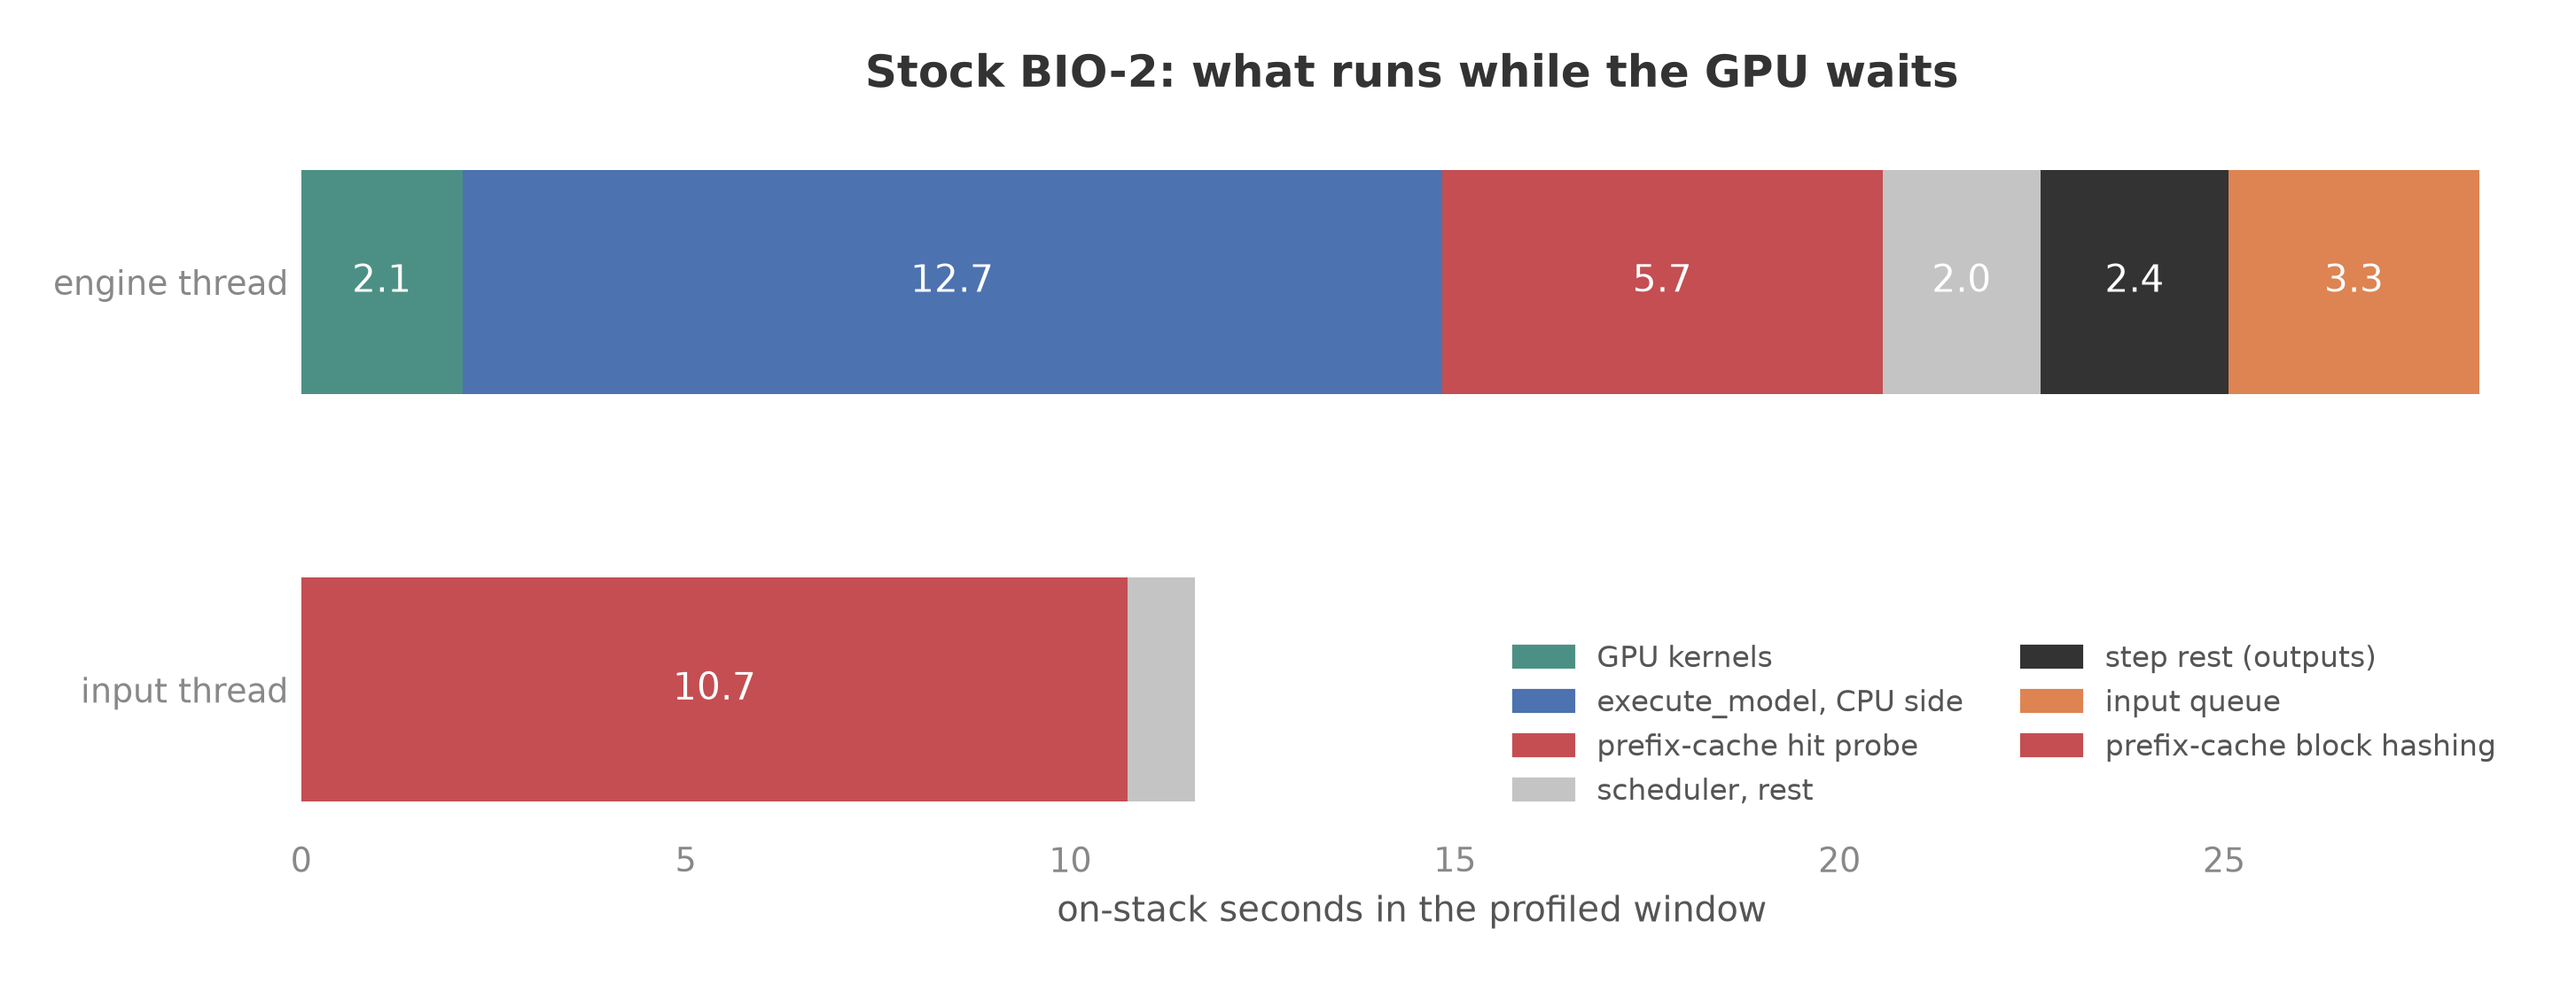
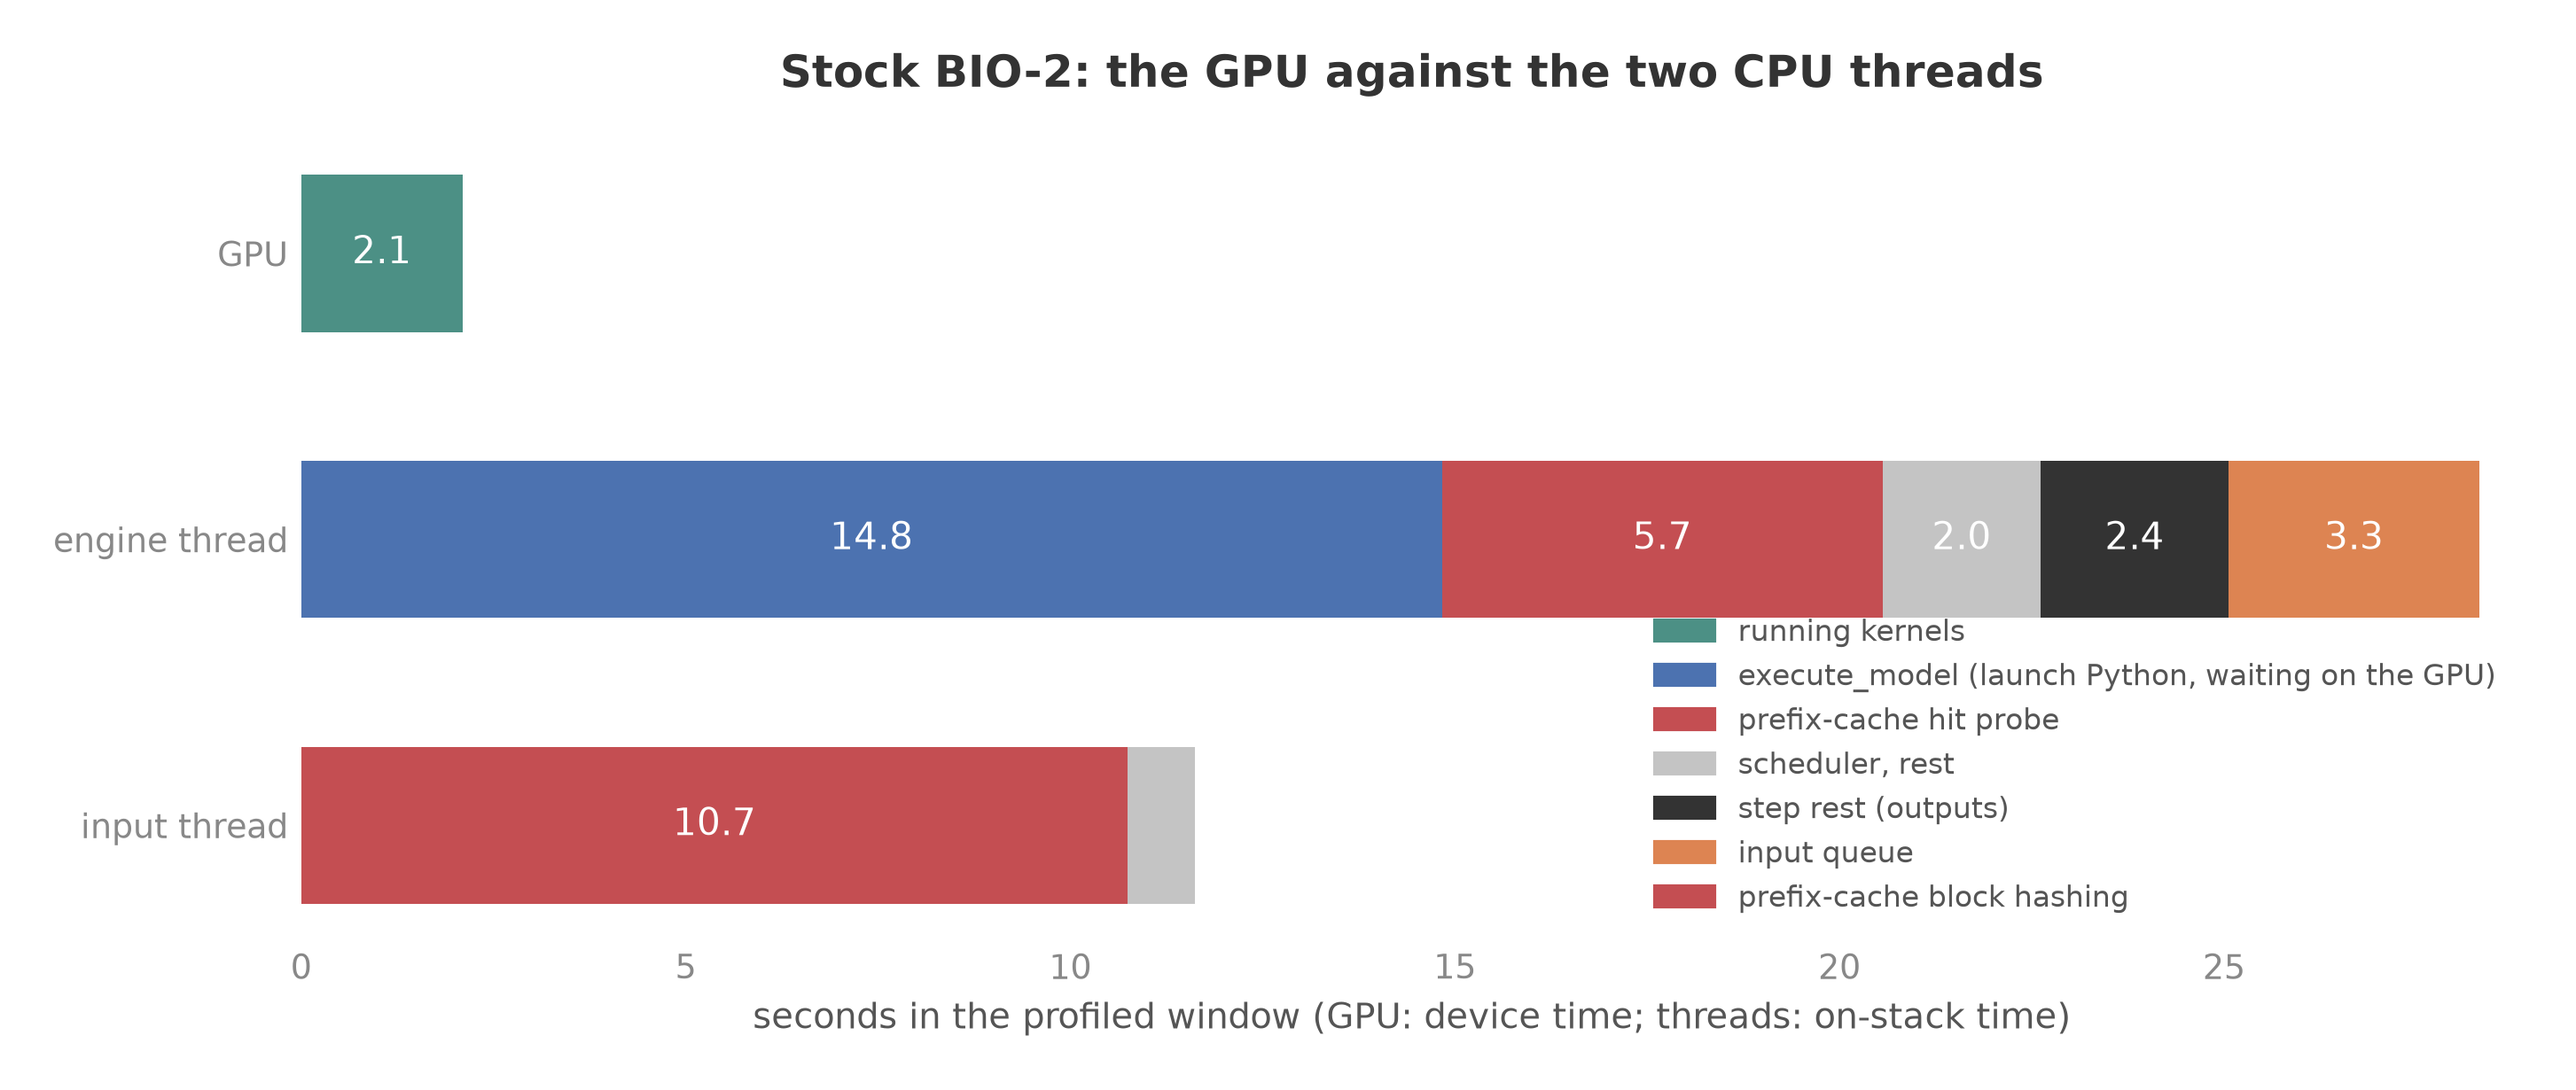
BIO-2 figures: GPU gets its own lane, strip labels shrink to name and busy share
The attribution figure no longer draws kernel time inside the engine
thread's bar - device time is not thread time - and the strips say
in the title what filled means. The profiler-stretch caveat moves to
the report text.

Claude-Session: https://claude.ai/code/session_01LCNhjRhCWLPyrH8TJk6zSt

diff --git a/reports/make_imdb3_bio2_discrepancies_plots.py b/reports/make_imdb3_bio2_discrepancies_plots.py
@@ -413,11 +413,8 @@ def fig_bio2_strips(workdir, stockb):
         workdir / "traces" / "bio2_join_late.chrome.json.gz")
     stock_evs = _kernel_intervals(_stock_bio2_trace(workdir, stockb))
     fig, axes = plt.subplots(2, 1, figsize=(9.6, 3.4), sharex=True)
-    rows = ((axes[0], quail_evs, BLUE, "white",
-             "Quail (kernel-only capture)"),
-            (axes[1], stock_evs, RED, DARK,
-             "stock vLLM (profiled run; its CPU tracing stretches "
-             "the wall about 2.4x)"))
+    rows = ((axes[0], quail_evs, BLUE, "white", "Quail"),
+            (axes[1], stock_evs, RED, DARK, "stock vLLM"))
     excerpt = 2.0
     for ax, evs, color, text_color, label in rows:
         t0 = min(s for s, _ in evs)
@@ -440,8 +437,8 @@ def fig_bio2_strips(workdir, stockb):
                            edgecolor="none")))
         ax.set_xlim(0, excerpt)
     axes[1].set_xlabel("seconds into the excerpt")
-    axes[0].set_title("BIO-2: when the GPU is running a kernel, "
-                      "two-second excerpts")
+    axes[0].set_title("BIO-2: filled while the GPU computes, blank "
+                      "while it idles")
     fig.tight_layout()
     fig.savefig(OUT / "discrepancy_bio2_strips.png", dpi=300)
     plt.close(fig)
@@ -452,20 +449,21 @@ def fig_bio2_strips(workdir, stockb):
 
 
 def fig_bio2_cpu(workdir, stockb):
-    """Where stock's window wall goes, split exactly by stack frame.
+    """Where stock's window wall goes: the GPU's kernel time in its
+    own lane, and the two CPU threads split exactly by stack frame.
 
     On-stack seconds include GIL waits and, inside execute_model,
     the wait for the GPU; the two threads run concurrently but share
-    the GIL.
+    the GIL. The GPU lane is device time, not thread time.
     """
     path = _stock_bio2_trace(workdir, stockb)
     fr = frame_seconds(path)
     _, _, _, merged_us = kernel_busy(path)
     kernels = merged_us / 1e6
+    gpu = [("running kernels", kernels, TEAL)]
     engine = [
-        ("GPU kernels", kernels, TEAL),
-        ("execute_model, CPU side", fr["execute_model"] - kernels,
-         BLUE),
+        ("execute_model (launch Python, waiting on the GPU)",
+         fr["execute_model"], BLUE),
         ("prefix-cache hit probe", fr["cache_probe"], RED),
         ("scheduler, rest", fr["schedule"] - fr["cache_probe"], GRAY),
         ("step rest (outputs)", fr["engine_step"] - fr["schedule"]
@@ -477,26 +475,28 @@ def fig_bio2_cpu(workdir, stockb):
         ("request construction, rest",
          fr["preprocess"] - fr["block_hash"], GRAY),
     ]
-    fig, ax = plt.subplots(figsize=(9.6, 3.6))
-    for y, (title, parts) in enumerate((
-            ("engine thread", engine), ("input thread", inputt))):
+    lanes = (("GPU", gpu), ("engine thread", engine),
+             ("input thread", inputt))
+    fig, ax = plt.subplots(figsize=(9.6, 4.0))
+    for y, (title, parts) in zip((2, 1, 0), lanes):
         x = 0.0
         for name, sec, color in parts:
-            ax.barh(1 - y, sec, left=x, color=color, height=0.55)
+            ax.barh(y, sec, left=x, color=color, height=0.55)
             if sec > 1.6:
-                ax.text(x + sec / 2, 1 - y, f"{sec:.1f}",
+                ax.text(x + sec / 2, y, f"{sec:.1f}",
                         ha="center", va="center", color="white")
             x += sec
     handles = [plt.Rectangle((0, 0), 1, 1, color=c)
-               for _, _, c in engine + inputt[:1]]
-    labels = [n for n, _, _ in engine] + [inputt[0][0]]
+               for _, _, c in gpu + engine + inputt[:1]]
+    labels = ([n for n, _, _ in gpu + engine]
+              + [inputt[0][0]])
     ax.legend(handles, labels, loc="lower right", frameon=False,
-              ncol=2, fontsize=8)
-    ax.set_yticks([1, 0],
-                  labels=["engine thread", "input thread"])
-    ax.set_xlabel("on-stack seconds in the profiled window")
+              ncol=1, fontsize=8)
+    ax.set_yticks([2, 1, 0], labels=[t for t, _ in lanes])
+    ax.set_xlabel("seconds in the profiled window (GPU: device "
+                  "time; threads: on-stack time)")
     ax.set_xlim(0, fr["busy_loop"] * 1.02)
-    ax.set_title("Stock BIO-2: what runs while the GPU waits")
+    ax.set_title("Stock BIO-2: the GPU against the two CPU threads")
     fig.tight_layout()
     fig.savefig(OUT / "discrepancy_bio2_cpu.png", dpi=300)
     plt.close(fig)

diff --git a/reports/2026-08-30-imdb3-bio2-discrepancies.md b/reports/2026-08-30-imdb3-bio2-discrepancies.md
@@ -204,9 +204,12 @@ whole wall per pair (0.23 ms).
 
 Figure: plots/discrepancy_bio2_strips.png
 
-The strips show two-second excerpts of the same windows: every mark
-is one kernel-execution interval. Quail's strip is one solid band;
-stock's is slivers with idle between them.
+The strips show two-second excerpts of the profiled windows: color
+where the GPU is executing a kernel, blank where it is idle.
+Quail's strip is one solid band; stock's is slivers. Stock's strip
+comes from its profiled run, whose CPU tracing stretches the wall
+about 2.4x, so its true idle share is smaller than the strip's 92% -
+the corrected figure is the 82% above.
 
 The trace's Python stacks say what fills the idle. Over the
 28.3-second window (6,762 requests, 2.1 seconds of merged kernel
